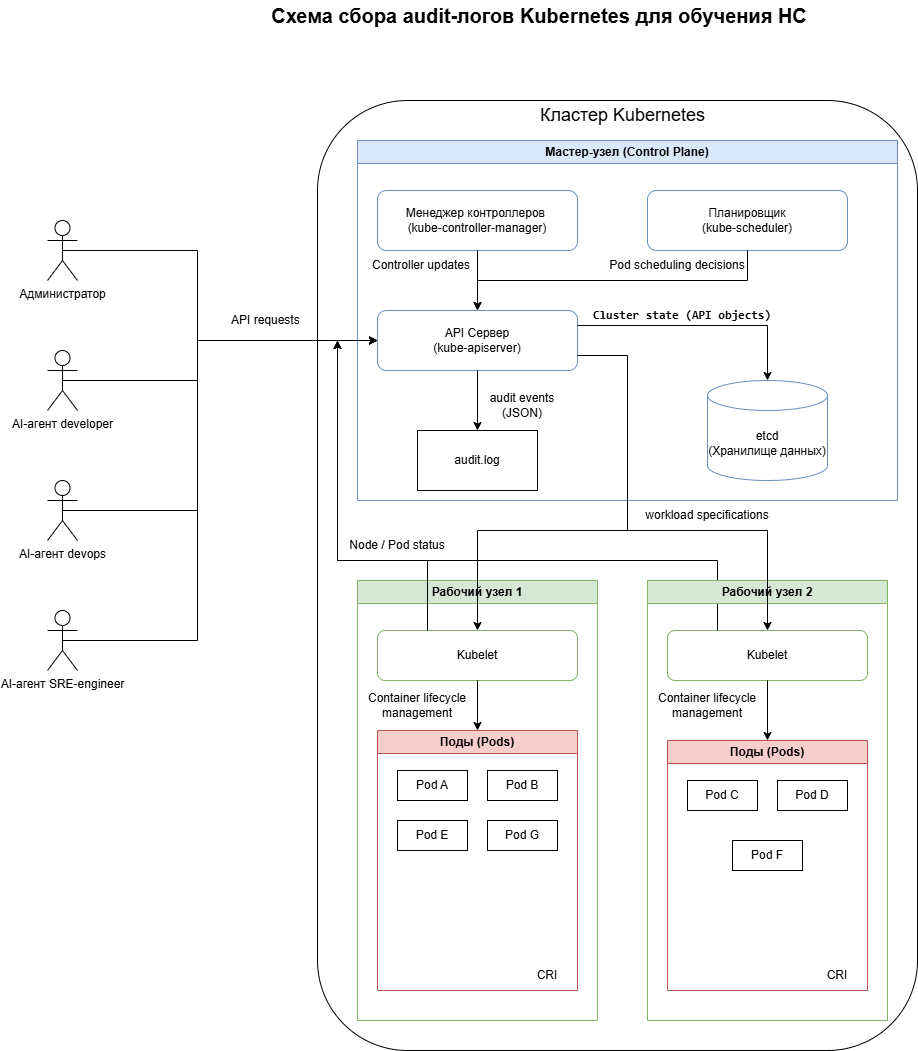
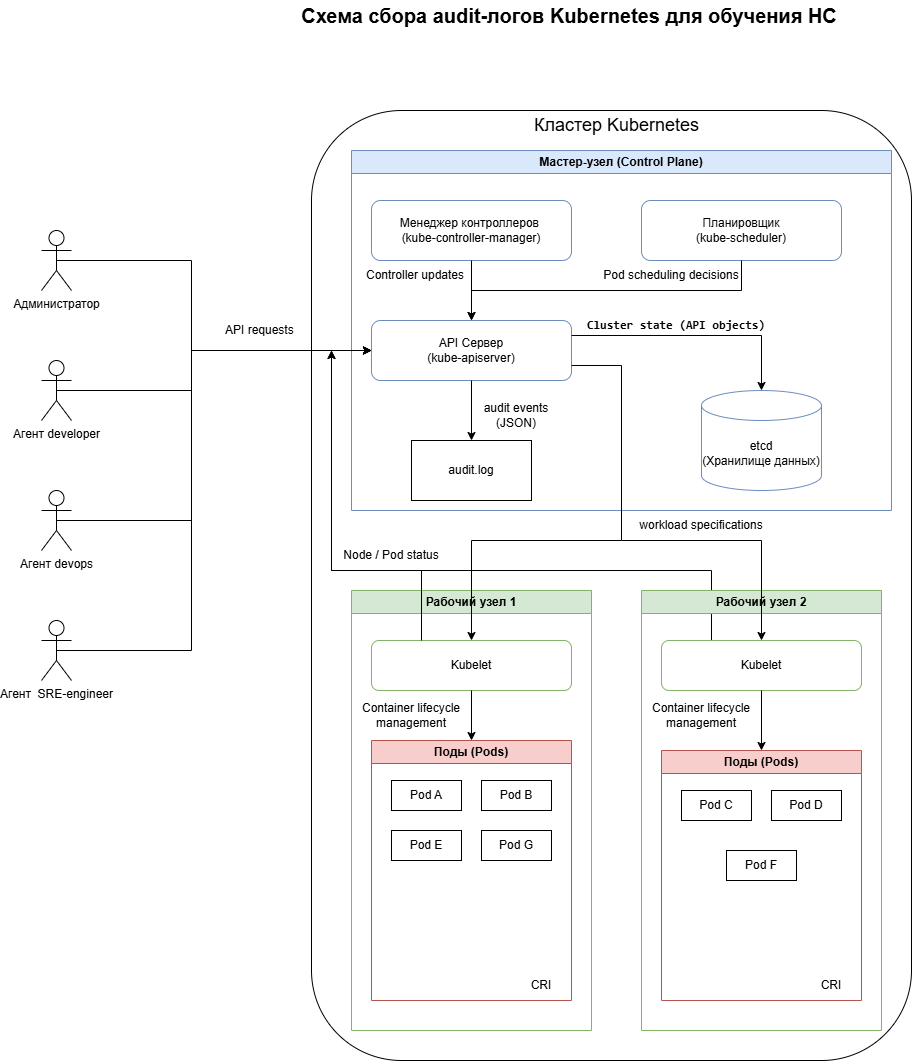
refactor

diff --git a/docs/contents/2-introduction.tex b/docs/contents/2-introduction.tex
@@ -2,15 +2,14 @@
 
 Актуальность исследования обусловлена широким распространением облачных технологий, контейнеризации и микросервисной архитектуры в современных информационных системах. Переход от монолитных приложений к распределённым сервисам позволил повысить масштабируемость и отказоустойчивость программных решений, однако одновременно привёл к усложнению процессов администрирования и обеспечения безопасности \cite{Dragoni_2017_Microservices_yesterday_today_and_tomorrow}.
 
-В настоящее время контейнеризация и оркестрация контейнеров являются базовыми технологиями при построении корпоративных и облачных систем. Одним из наиболее распространённых инструментов управления контейнеризированными приложениями выступает платформа Kubernetes, обеспечивающая автоматическое развертывание, масштабирование и координацию контейнеров в распределённой инфраструктуре. Широкое применение Kubernetes в промышленной эксплуатации подтверждает его значимость для современных информационных систем \cite{Container_Security_Extensive_Roadmap}.
-
-Вместе с тем динамическая структура Kubernetes-кластера создаёт дополнительные риски в области информационной безопасности. Постоянное изменение состава подов, сервисов, ролей и прав доступа усложняет контроль за действиями пользователей и сервисных учётных записей, а также повышает вероятность возникновения инцидентов, связанных с несанкционированным доступом, эскалацией привилегий и выполнением подозрительных операций внутри кластера.
+В настоящее время контейнеризация и оркестрация контейнеров являются базовыми технологиями при построении корпоративных и облачных систем. Одним из наиболее распространённых инструментов управления контейнеризированными приложениями выступает платформа Kubernetes, обеспечивающая автоматическое развертывание, масштабирование и координацию контейнеров в распределённой инфраструктуре. Широкое применение Kubernetes в промышленной эксплуатации подтверждает его значимость для современных информационных систем \cite{Container_Security_Extensive_Roadmap}. Вместе с тем динамическая структура Kubernetes-кластера создаёт дополнительные риски в области информационной безопасности.
 
 Одним из наиболее информативных источников данных для анализа безопасности Kubernetes-кластера являются audit-логи, формируемые компонентом API-сервера. Указанные журналы содержат сведения о запросах к объектам кластера, включая тип операции, пользователя, целевой ресурс, код ответа и иные параметры запроса. Анализ таких данных позволяет выявлять нетипичные сценарии поведения, которые могут указывать на наличие атак, нарушений политики безопасности или ошибок конфигурации \cite{KubernetesAudit}.
 
-Однако практическое использование audit-логов затрудняется высокой интенсивностью их формирования, значительным объёмом данных и сложностью выявления скрытых зависимостей между событиями. Традиционные сигнатурные и правил-ориентированные методы обнаружения аномалий недостаточно эффективны в условиях изменяющегося характера атак и разнообразия легитимного поведения пользователей. Кроме того, audit-логи представляют собой последовательности событий, в которых важную роль играет не только факт отдельного обращения, но и порядок, контекст и временные зависимости между событиями. В связи с этим актуальным является применение методов машинного обучения и нейронных сетей, способных автоматически выявлять аномальные последовательности и скрытые закономерности в данных.
+Однако использование audit-логов затрудняется высокой интенсивностью их формирования, значительным объёмом данных и сложностью выявления скрытых зависимостей между событиями. Традиционные сигнатурные и правил-ориентированные методы обнаружения аномалий недостаточно эффективны в условиях изменяющегося характера атак и разнообразия легитимного поведения пользователей. Кроме того, audit-логи представляют собой последовательности событий, в которых важную роль играет не только факт отдельного обращения, но и порядок, контекст и временные зависимости между событиями. В связи с этим актуальным является применение методов машинного обучения и нейронных сетей, способных автоматически выявлять аномальные последовательности и скрытые закономерности в данных.
 
 Таким образом, актуальность настоящей работы определяется следующими факторами:
+
 \begin{enumerate}
     \item ростом числа атак на облачные и контейнерные инфраструктуры, включая Kubernetes-кластеры \cite{Kubernetes_Security_Report};
     \item высокой интенсивностью формирования audit-логов и сложностью их ручного анализа в распределённых системах;
@@ -21,19 +20,17 @@
 Целью выпускной квалификационной работы является разработка средства обнаружения аномалий в Kubernetes-кластере на основе методов нейронных сетей, обеспечивающего высокую точность выявления аномальных событий.
 
 Для достижения поставленной цели необходимо решить следующие задачи:
+
 \begin{enumerate}
+    \item провести обзор и анализ научной литературы в области обнаружения аномалий в контейнерных средах;  
     \item рассмотреть и сравнить существующие подходы и методы обнаружения аномалий в контейнерных средах на основе нейронных сетей;
     \item выполнить моделирование одного из подходов обнаружения аномалий;
     \item разработать архитектуру средства обнаружения аномалий в Kubernetes-кластере;
+    \item сформулировать математическую постановку задачи 
     \item сформировать или получить набор данных для обучения модели нейронной сети;
     \item построить и обучить модель нейронной сети;
-    \item разработать программное обеспечение на основе построенной модели;
+    \item разработать программное обеспечение на основе выбранной модели НС;
+    \item тестирование разработанного средства;
+    \item обоснование экономической целесообразности разработанного средства;
+    \item правовое обоснование выполнения выпускной квалификационной работы. 
 \end{enumerate}
-
-% В первой главе работы будут рассмотрены основные понятия, связанные с контейнеризацией, Kubernetes и обнаружением аномалий, а также выполнен обзор научных публикаций и прикладных решений в данной области. Особое внимание будет уделено анализу методов машинного обучения и нейронных сетей, применяемых для выявления аномального поведения в последовательностях событий.
-
-% Во второй главе будет проведён анализ существующих подходов к обнаружению аномалий в контейнерных средах, выполнено сравнение их достоинств и недостатков, а также обоснован выбор метода, наиболее подходящего для решения поставленной задачи. Кроме того, будет разработана архитектура средства обнаружения аномалий в Kubernetes-кластере и сформулирована математическая постановка задачи.
-
-% В третьей главе будет описан процесс подготовки данных, формирования признаков, построения и обучения модели нейронной сети, а также программная реализация разработанного средства. В данной части работы будет рассмотрена логика обработки audit-логов, применение выбранной нейросетевой архитектуры и особенности её использования для выявления аномалий.
-
-% В четвёртой главе будут приведены результаты тестирования разработанного средства, выполнена оценка качества модели на основе выбранных метрик и проанализированы полученные результаты. Также будут рассмотрены вопросы практической применимости разработанного решения, его экономической эффективности и соответствия требованиям действующих нормативных правовых актов Российской Федерации.

diff --git a/docs/contents/1-abstract.tex b/docs/contents/1-abstract.tex
@@ -4,12 +4,12 @@
 
 Целью выпускной квалификационной работы является разработка средства обнаружения аномалий в Kubernetes-кластере на основе методов нейронных сетей, обеспечивающего высокую точность выявления аномальных событий.
 
-В процессе выполнения работы были рассмотрены существующие подходы к обнаружению аномалий в информационных системах, а также методы анализа журналов аудита (audit-логов) в Kubernetes-кластерах. Проведён обзор современных методов машинного обучения и глубокого обучения, применяемых для задач выявления отклоняющегося поведения в последовательностях событий.
+В процессе выполнения работы были рассмотрены существующие подходы к обнаружению аномалий в информационных системах, а также методы анализа audit-логов Kubernetes-кластерах. Проведён обзор современных методов машинного обучения и глубокого обучения, применяемых для задач выявления отклоняющегося поведения в последовательностях событий.
 
 В ходе работы был выполнен анализ исходных данных, представляющих собой журналы аудита Kubernetes-кластера. На основе полученных данных были разработаны, обучены и исследованы модели обнаружения аномалий с использованием нейронных сетей, включая автоэнкодеры и их рекуррентные модификации. Особое внимание уделено модели на основе LSTM-автоэнкодера (LSTM-AE), способной учитывать временную структуру последовательностей.
 
-Оценка качества моделей проводилась с использованием метрик классификации, при этом в качестве основной метрики была выбрана площадь под PR-кривой ($AUC_{PR}$), как наиболее информативная в условиях несбалансированных данных. В результате экспериментов установлено, что модель LSTM-AE демонстрирует наилучшие показатели качества: значение $AUC_{PR}$ составило 0,99962, precision — 0,93097, recall — 1,00000 и F1-мера — 0,96425, что подтверждает её высокую эффективность для решения поставленной задачи.
+Оценка качества моделей проводилась с использованием метрик классификации, при этом в качестве основной метрики была выбрана площадь под PR-кривой ($AUC_{PR}$), как наиболее информативная в условиях несбалансированных данных. В результате экспериментов установлено, что модель LSTM-AE демонстрирует наилучшие показатели качества: значение $AUC_{PR}$ составило 0,9996, precision — 0,931, recall — 1,00 и F1-мера — 0,964.
 
-Далее было разработано программное обеспечение, реализующее процесс предварительной обработки audit-логов, формирования признаков, обучения и применения модели для выявления аномалий в Kubernetes-кластере. Предложенное средство обеспечивает автоматизированный анализ событий и позволяет своевременно обнаруживать отклонения от нормального поведения в контейнерной среде.
+Разработано программное обеспечение, реализующее процесс предварительной обработки audit-логов, формирования признаков, обучения и применения модели для выявления аномалий в Kubernetes-кластере. Предложенное средство обеспечивает автоматизированный анализ событий и позволяет своевременно обнаруживать отклонения от нормального поведения в контейнерной среде.
 
 В рамках работы также рассмотрены вопросы практической применимости разработанного средства, включая оценку его экономической целесообразности и соответствие требованиям действующих нормативных правовых актов Российской Федерации.

diff --git a/docs/contents/3-2-design/06-solution-mathematical-problem.tex b/docs/contents/3-2-design/06-solution-mathematical-problem.tex
@@ -214,8 +214,6 @@
 
 В данной работе автокодировщик используется для обнаружения аномалий в событиях audit-логов Kubernetes. После предобработки каждое событие представляется вектором признаков $x \in \mathbb{R}^d$, который подаётся на вход модели. Автокодировщик обучается восстанавливать нормальные события.
 
-Основная идея заключается в том, что модель хорошо реконструирует только данные, соответствующие распределению обучающей выборки. Аномальные события отличаются от нормального поведения, поэтому ошибка их реконструкции выше.
-
 Функция потерь, используемая при обучении модели, определяется среднеквадратичной ошибкой, представленной в формуле~\ref{eq:mse_loss}.
 
 \begin{equation}\label{eq:mse_loss}
@@ -238,7 +236,7 @@
 
 \begin{figure}
     \centering
-    \includegraphics[scale=0.7]{inc/images/ae_training_loss}
+    \includegraphics[scale=0.6]{inc/images/ae_training_loss}
     \caption{Изменение функции потерь Autoencoder в процессе обучения.}
     \label{fig:ae_training_loss}
 \end{figure}
@@ -257,7 +255,7 @@
 
 \begin{figure}
     \centering
-    \includegraphics[scale=0.7]{inc/images/ae_reconstruction_error}
+    \includegraphics[scale=0.6]{inc/images/ae_reconstruction_error}
     \caption{Распределение ошибки реконструкции для модели Autoencoder.}
     \label{fig:ae_reconstruction_error}
 \end{figure}
@@ -311,7 +309,7 @@
 
 \begin{figure}
     \centering
-    \includegraphics[scale=0.7]{inc/images/rnn_training_loss}
+    \includegraphics[scale=0.6]{inc/images/rnn_training_loss}
     \caption{Изменение функции потерь модели RNN-AE в процессе обучения.}
     \label{fig:rnn_training_loss}
 \end{figure}
@@ -322,7 +320,7 @@
 
 \begin{figure}
     \centering
-    \includegraphics[scale=0.7]{inc/images/rnn_reconstruction_error}
+    \includegraphics[scale=0.6]{inc/images/rnn_reconstruction_error}
     \caption{Распределение ошибки реконструкции для модели RNN-AE.}
     \label{fig:rnn_reconstruction_error}
 \end{figure}
@@ -375,7 +373,7 @@
 
 \begin{figure}
     \centering
-    \includegraphics[scale=0.7]{inc/images/lstm_training_loss}
+    \includegraphics[scale=0.6]{inc/images/lstm_training_loss}
     \caption{Изменение функции потерь LSTM-AE на обучающей и валидационной выборках.}
     \label{fig:lstm_training_loss}
 \end{figure}
@@ -386,7 +384,7 @@
 
 \begin{figure}
     \centering
-    \includegraphics[scale=0.7]{inc/images/lstm_reconstruction_error}
+    \includegraphics[scale=0.6]{inc/images/lstm_reconstruction_error}
     \caption{Распределение ошибки реконструкции для нормальных и аномальных событий.}
     \label{fig:lstm_reconstruction_error}
 \end{figure}
@@ -427,11 +425,11 @@
     \hline
     \textbf{Модель} & \textbf{ROC-AUC} & \textbf{PR-AUC} & \textbf{Precision} & \textbf{Recall} & \textbf{F1} \\
     \hline
-    Autoencoder & 0.99988 & 0.99631 & 0.91394 & 1.00000 & 0.95503 \\
+    Autoencoder & 0.9998 & 0.9963 & 0.914 & 1.00 & 0.955 \\
     \hline
-    RNN-AE      & 0.99980 & 0.99733 & 0.93542 & 1.00000 & 0.96663 \\
+    RNN-AE      & 0.9998 & 0.9973 & 0.935 & 1.00 & 0.967 \\
     \hline
-    LSTM-AE     & 0.99997 & 0.99962 & 0.93097 & 1.00000 & 0.96425 \\
+    LSTM-AE     & 0.9999 & 0.9996 & 0.931 & 1.00 & 0.964 \\
     \hline
     \end{tabular}
 \end{table}

diff --git a/docs/contents/3-2-design/main.tex b/docs/contents/3-2-design/main.tex
@@ -13,9 +13,7 @@
 
 В рамках моделирования подхода был исследован принцип обнаружения аномалий на основе анализа audit-логов, а также выбран подход DeepLog как удачно зарекомендовавшая себя архитектура для работы с последовательностями событий. Это позволило подтвердить применимость рекуррентных моделей для анализа логов Kubernetes и обосновать дальнейший выбор нейросетевых архитектур для решения поставленной задачи.
 
-На этапе выбора метода обнаружения аномалий было установлено, что в рассматриваемой задаче отсутствует достаточный объём размеченных данных об аномалиях, а каждый Kubernetes-кластер обладает собственной конфигурацией, набором сервисов и характером нормального поведения. В связи с этим были выбраны методы на основе автоэнкодеров, не требующие полноценной разметки обучающей выборки и позволяющие строить модель нормального поведения системы по данным без аномалий. В качестве сравниваемых архитектур были рассмотрены AE, RNN-AE и LSTM-AE.
-
-Далее была разработана архитектура средства обнаружения аномалий, включающая этапы сбора audit-логов. Была сформулирована математическая постановка задачи, определены входные данные, критерии обучения и метрики качества, а также описан принцип выбора оптимальной архитектуры по значению PR-AUC в условиях сильного дисбаланса классов.
+Была разработана архитектура средства обнаружения аномалий, включающая этапы сбора audit-логов. Была сформулирована математическая постановка задачи, определены входные данные, критерии обучения и метрики качества, а также описан принцип выбора оптимальной архитектуры по значению PR-AUC в условиях сильного дисбаланса классов.
 
 В разделе, посвящённом решению математической постановки задачи, были детально описаны процедуры предобработки audit-логов, кодирования признаков, формирования обучающей, валидационной и тестовой выборок, а также обучения и сравнения моделей AE, RNN-AE и LSTM-AE. Проведённый сравнительный анализ показал, что все рассмотренные модели демонстрируют высокое качество обнаружения аномалий, однако наилучшие результаты по совокупности метрик показала архитектура LSTM-AE, обеспечившая наибольшее значение PR-AUC и наиболее устойчивое разделение нормальных и аномальных событий.
 

diff --git a/docs/contents/3-4-economy/01-market-analysis.tex b/docs/contents/3-4-economy/01-market-analysis.tex
@@ -2,7 +2,7 @@
 
 В последние годы контейнеризация и оркестрация приложений стали одним из ключевых направлений развития корпоративной ИТ-инфраструктуры. Развитие микросервисной архитектуры и контейнерных подходов сделало Kubernetes одной из базовых платформ для эксплуатации современных приложений. Применение Kubernetes позволяет ускорять развёртывание сервисов, повышать масштабируемость систем и упрощать сопровождение распределённых приложений \cite{Kubernetes}.
 
-Вместе с тем рост числа контейнерных сред приводит к увеличению требований к их защищённости, поскольку контейнерные технологии имеют связанные с безопасностью риски, а уязвимости и ошибки конфигурации могут возникать как на этапе сборки, так и на этапе эксплуатации \cite{NISTSP800190,NISTSP800204C}. Ошибки конфигурации, несанкционированные действия пользователей и аномальная активность внутри кластера могут привести к нарушению доступности сервисов, утечке данных и сбоям в работе инфраструктуры \cite{NISTSP800190,NISTSP800204C}.
+Вместе с тем рост числа контейнерных сред приводит к увеличению требований к их защищённости, поскольку контейнерные технологии имеют связанные с безопасностью риски, а уязвимости и ошибки конфигурации могут возникать как на этапе сборки, так и на этапе эксплуатации \cite{NISTSP800190}. Ошибки конфигурации, несанкционированные действия пользователей и аномальная активность внутри кластера могут привести к нарушению доступности сервисов, утечке данных и сбоям в работе инфраструктуры \cite{NISTSP800190}.
 
 Одним из наиболее информативных источников данных о действиях в Kubernetes-кластере являются audit-логи, содержащие сведения о запросах к API-серверу, выполнении административных операций и взаимодействии различных субъектов с объектами кластера \cite{KubernetesAudit}. Анализ таких журналов позволяет выявлять отклонения от нормального поведения, обнаруживать подозрительные действия и своевременно реагировать на потенциальные инциденты информационной безопасности. В связи с этим разработка программного средства обнаружения аномалий в Kubernetes-кластере на основе анализа audit-логов является актуальной задачей для организаций, использующих контейнерную инфраструктуру в продуктивной среде.
 

diff --git a/docs/contents/3-1-research/01-statistical-methods.tex b/docs/contents/3-1-research/01-statistical-methods.tex
@@ -58,12 +58,11 @@ $$
 \begin{itemize}
     \item CUSUM (кумулятивные суммы);
     \item EWMA (экспоненциально взвешенное среднее);
-    \item контрольные карты Шухарта.
 \end{itemize}
 
 Основное ограничение — чувствительность к изменению распределения данных и отсутствие учёта многомерных зависимостей.
 
-\subsubsection{Методы белых списков}
+\subsubsection{Методы и черных белых списков}
 
 Метод белых списков основан на явном задании допустимых объектов:
 
@@ -77,12 +76,26 @@ $$
 
 где \(W\) — whitelist.
 
+Метод черных списков, напротив, основан на запрете заранее известных нежелательных объектов:
+
+$$
+D(x) =
+\begin{cases}
+0, & x \in B \\
+1, & x \notin B
+\end{cases}
+$$
+
+где \(B\) — blacklist.
+
+
 В Kubernetes такие методы применяются для контроля:
 
 \begin{itemize}
-    \item разрешённых IP-адресов;
+    \item разрешённых/запрещенных IP-адресов;
     \item сервисных аккаунтов;
-    \item допустимых образов контейнеров.
+    \item допустимых образов контейнеров;
+    \item фильтрации вредоносных сетевых запросов.
 \end{itemize}
 
 Недостатком является высокая статичность и необходимость регулярного обновления списков.

diff --git a/docs/contents/3-4-economy/05-cost-analysis.tex b/docs/contents/3-4-economy/05-cost-analysis.tex
@@ -1,6 +1,6 @@
 \subsection{Анализ затрат на изготовление продукта}
 
-Затраты на выполнение проекта включают оплату труда исполнителей, расходы на приобретение оборудования, затраты на организацию рабочих мест и накладные расходы.
+Затраты на выполнение проекта включают оплату труда исполнителей, расходы на приобретение оборудования, затраты на организацию рабочих мест, а также накладные расходы, связанные с обеспечением процесса разработки. Данный анализ позволяет оценить экономическую целесообразность создания программного продукта и определить основные статьи расходов, оказывающие наибольшее влияние на итоговую стоимость проекта.
 
 Проектные затраты определяются по формуле \eqref{eq:K}.
 
@@ -42,6 +42,7 @@ $O_{\text{ДН}}$ -- дневной оклад исполнителя.
 
 При восьмичасовом рабочем дне дневной оклад определяется по формуле \eqref{eq:Odn}.
 
+\nopagebreak
 \begin{equation}\label{eq:Odn}
 O_{\text{ДН}} = \frac{8 \cdot O_{\text{МЕС}}}{F_{\text{М}}},
 \end{equation}

diff --git a/docs/contents/terms.tex b/docs/contents/terms.tex
@@ -1,3 +1,8 @@
+\newglossaryentry{id3}{
+    name={Автокодировщик (autoencoder)},
+    description={нейронная сеть, обучаемая восстанавливать входные данные через компактное латентное представление, применяемая для извлечения признаков и обнаружения аномалий.}
+}
+
 \newglossaryentry{id1}{
     name={Аномалия},
     description={отклонение наблюдаемого поведения объекта, процесса или системы от ожидаемого нормального состояния.}
@@ -6,11 +11,6 @@
 \newglossaryentry{id2}{
     name={Аудит-лог (audit log)},
     description={журнал событий безопасности, содержащий сведения о действиях пользователей, сервисных аккаунтов и компонентов системы при обращении к API Kubernetes.}
-}
-
-\newglossaryentry{id3}{
-    name={Автокодировщик (autoencoder)},
-    description={нейронная сеть, обучаемая восстанавливать входные данные через компактное латентное представление, применяемая для извлечения признаков и обнаружения аномалий.}
 }
 
 \newglossaryentry{id4}{

diff --git a/docs/contents/3-1-research/02-ml-methods.tex b/docs/contents/3-1-research/02-ml-methods.tex
@@ -42,7 +42,7 @@
 
 \textbf{Алгоритм Isolation Forest (iForest)} — метод обнаружения аномалий, основанный на идее изоляции объектов путём построения ансамбля случайных бинарных деревьев. Его фундаментальная концепция заключается в том, что образцы, которые проникают глубже в дерево, с меньшей вероятностью будут аномалиями, поскольку для их изоляции требуется больше разрезов, а образцы, которые оказываются в более коротких ветвях, указывают на аномалии, поскольку дереву проще отделить их от других наблюдений\cite{iForest}. 
 
-На рисунке~\ref{fig:IF_png} показана концепция обнаружения аномалий с помощью Isolation Forest - ансамбль бинарных деревьев, каждое из которых называется Isolation Tree (iTree)
+На рисунке~\ref{fig:IF_png} показана концепция обнаружения аномалий с помощью Isolation Forest.
 
 \begin{figure}
     \centering

diff --git a/docs/contents/3-4-economy/06-payback.tex b/docs/contents/3-4-economy/06-payback.tex
@@ -36,6 +36,7 @@ $$
 
 Стоимость продукта полностью соответствует ожиданиям рынка, предположенных в при анализе существующих решений. Соответственно, прибыль можно определить по формуле \ref{eq:c_profit} с учётом НДС, равным 22 \%.
 
+\nopagebreak
 \begin{equation}\label{eq:c_profit}
   C_{\text{приб}} = K_{\text{по}} \cdot D_{\text{приб}} \cdot (1 - H_{\text{НДС}}) = 655200 \ \text{руб.}
 \end{equation}

diff --git a/docs/main.tex b/docs/main.tex
@@ -32,8 +32,8 @@
 \addbibresource{main.bib}
 
 \begin{document}
-    % \includepdf[pages={1}]{inc/titul.pdf}
-    \setcounter{page}{4}
+    \includepdf[pages={1}]{inc/other/titul.pdf}
+    \setcounter{page}{2}
 
     \include{contents/1-abstract}
     \tableofcontents
@@ -46,4 +46,7 @@
     \include{contents/3-main}
     \include{contents/4-conclusion}
     \printbibliography
+
+    \appendix
+    \include{contents/5-appendix-a}
 \end{document}

diff --git a/docs/contents/3-3-technological/02-process-implementation.tex b/docs/contents/3-3-technological/02-process-implementation.tex
@@ -4,7 +4,7 @@
 
 \begin{figure}
     \centering
-    \includegraphics[scale=0.26]{inc/images/processes_overview}
+    \includegraphics[scale=0.36]{inc/images/processes_overview}
     \caption{Общая схема процессов программного средства}
     \label{fig:processes_overview}
 \end{figure}
